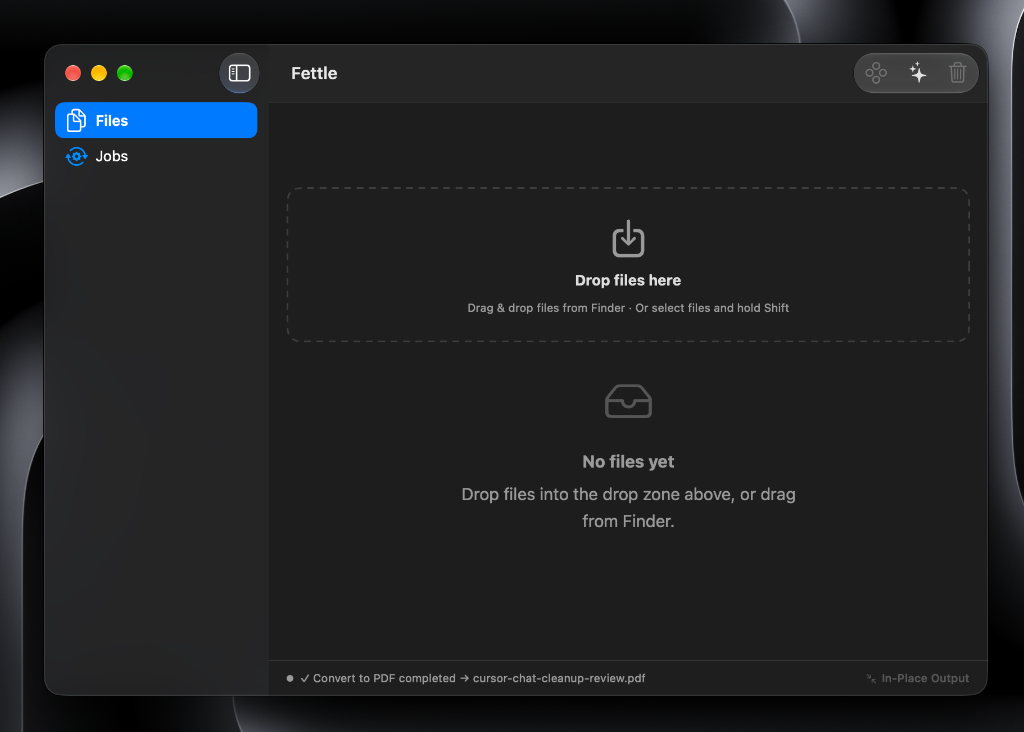
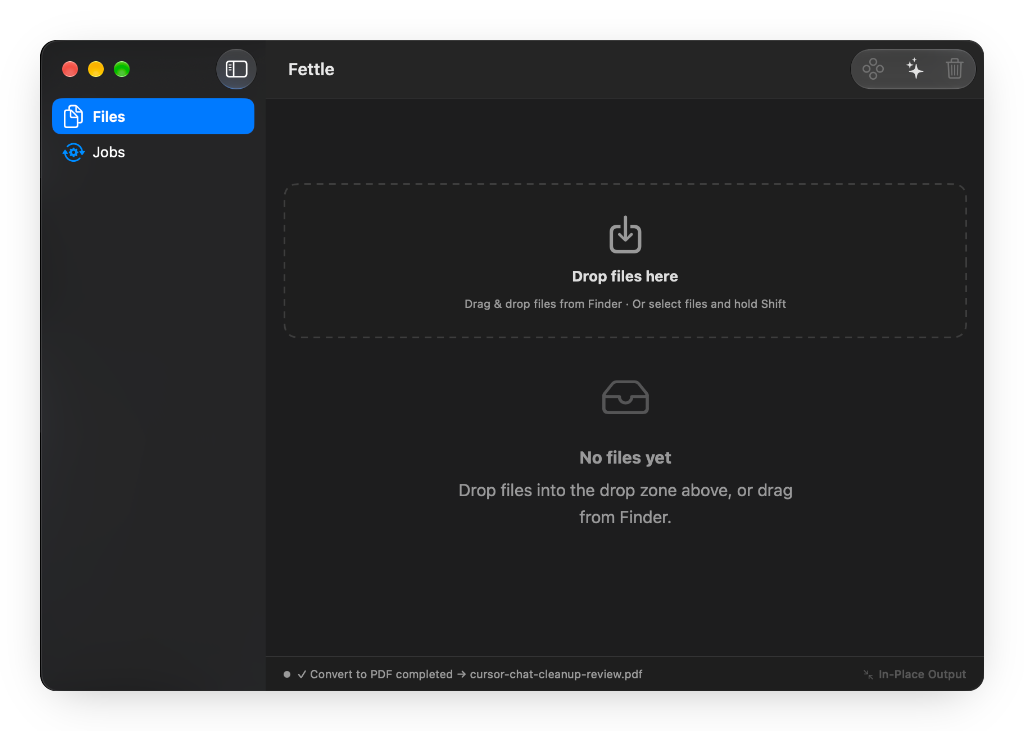
feat: enhance app screenshots with precision cropping, anti-aliased alpha masks, and realistic macOS window shadows

diff --git a/app/components/DesktopStage.tsx b/app/components/DesktopStage.tsx
@@ -135,8 +135,8 @@ export default function DesktopStage() {
           <div className="absolute inset-0 flex items-center justify-center pointer-events-none">
             <span className="text-[0.72rem] font-medium text-[var(--muted)]">
               {viewMode === "interactive" && "Desktop — try it"}
-              {viewMode === "radial_screenshot" && "Native macOS Radial Menu (Real Screenshot)"}
-              {viewMode === "app_screenshot" && "Fettle for Mac (Real Screenshot)"}
+              {viewMode === "radial_screenshot" && "Native macOS Radial HUD (Isolated Crop)"}
+              {viewMode === "app_screenshot" && "Fettle for Mac (Clean Window)"}
             </span>
           </div>
 
@@ -162,29 +162,32 @@ export default function DesktopStage() {
 
         {/* Real Screenshot View: Native Radial HUD */}
         {viewMode === "radial_screenshot" && (
-          <div className="relative min-h-[460px] bg-[#0c0d12] flex items-center justify-center overflow-hidden">
-            <img
-              src="/screenshots/radial-menu.png"
-              alt="Real Fettle macOS Native Radial Menu Screenshot"
-              className="w-full max-h-[520px] object-contain drop-shadow-2xl"
-            />
-            {/* Annotation callouts */}
-            <div className="absolute top-4 right-4 bg-black/60 backdrop-blur-md border border-white/10 px-3 py-1.5 rounded-full text-xs text-white/80 font-medium">
-              Real Retina screen capture
+          <div className="relative min-h-[460px] flex items-center justify-center overflow-hidden p-8" style={{ background: "var(--desk)" }}>
+            <div className="relative max-w-[380px] w-full flex items-center justify-center">
+              <img
+                src="/screenshots/radial-menu.png"
+                alt="Real Fettle macOS Native Radial Menu Screenshot"
+                className="w-full h-auto object-contain transition-transform hover:scale-105 duration-300"
+              />
+            </div>
+            <div className="absolute top-4 right-4 bg-[var(--elev)]/90 backdrop-blur-md border border-[var(--line)] px-3 py-1.5 rounded-full text-xs text-[var(--fg)] font-medium shadow-xs">
+               Real Native Retina HUD
             </div>
           </div>
         )}
 
         {/* Real Screenshot View: App Window */}
         {viewMode === "app_screenshot" && (
-          <div className="relative min-h-[460px] bg-[#0c0d12] flex items-center justify-center overflow-hidden p-2">
-            <img
-              src="/screenshots/fettle-main-window.png"
-              alt="Real Fettle macOS App Window Screenshot"
-              className="w-full max-h-[520px] object-contain drop-shadow-2xl rounded-xl"
-            />
-            <div className="absolute top-4 right-4 bg-black/60 backdrop-blur-md border border-white/10 px-3 py-1.5 rounded-full text-xs text-white/80 font-medium">
-              Native SwiftUI Window
+          <div className="relative min-h-[460px] flex items-center justify-center overflow-hidden p-6 sm:p-10" style={{ background: "var(--desk)" }}>
+            <div className="relative max-w-[840px] w-full">
+              <img
+                src="/screenshots/fettle-main-window.png"
+                alt="Real Fettle macOS App Window Screenshot"
+                className="w-full h-auto object-contain transition-transform hover:scale-[1.01] duration-300"
+              />
+            </div>
+            <div className="absolute top-4 right-4 bg-[var(--elev)]/90 backdrop-blur-md border border-[var(--line)] px-3 py-1.5 rounded-full text-xs text-[var(--fg)] font-medium shadow-xs">
+               Native SwiftUI Window
             </div>
           </div>
         )}

diff --git a/app/components/HowSection.tsx b/app/components/HowSection.tsx
@@ -40,14 +40,14 @@ export default function HowSection() {
             </div>
 
             {/* Real Screenshot Preview */}
-            <div className="p-4 sm:p-6 flex items-center justify-center overflow-hidden bg-[#0c0d12] relative min-h-[280px]">
-              <div className="relative w-full max-w-[340px] rounded-xl overflow-hidden shadow-2xl border border-white/10 group">
+            <div className="p-6 sm:p-8 flex items-center justify-center overflow-hidden relative min-h-[280px]" style={{ background: "var(--bg-soft)", borderLeft: "1px solid var(--line)" }}>
+              <div className="relative w-full max-w-[300px] flex items-center justify-center group">
                 <img
                   src="/screenshots/radial-menu.png"
                   alt="Real Native Fettle Radial HUD"
-                  className="w-full h-auto object-cover group-hover:scale-105 transition-transform duration-300"
+                  className="w-full h-auto object-contain group-hover:scale-105 transition-transform duration-300 drop-shadow-xl"
                 />
-                <div className="absolute bottom-2.5 right-2.5 px-2.5 py-1 rounded-full bg-black/70 backdrop-blur-md text-[10px] font-semibold text-white/90 border border-white/10">
+                <div className="absolute bottom-1 right-1 px-2.5 py-1 rounded-full bg-[var(--elev)]/90 backdrop-blur-md text-[10px] font-semibold text-[var(--fg)] border border-[var(--line)] shadow-xs">
                   Native macOS HUD
                 </div>
               </div>
